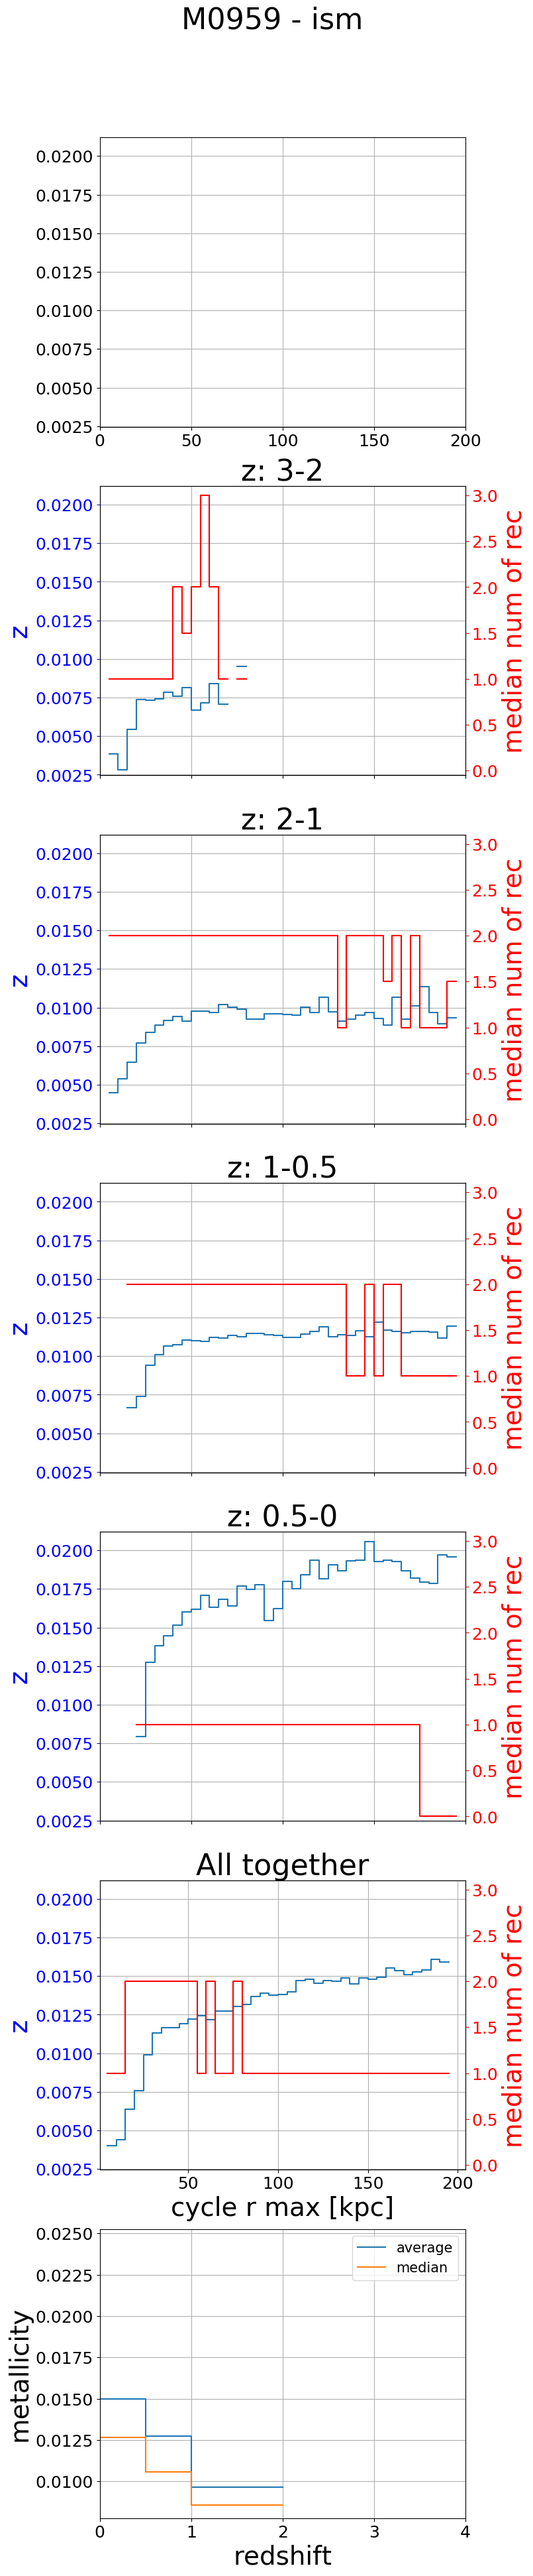
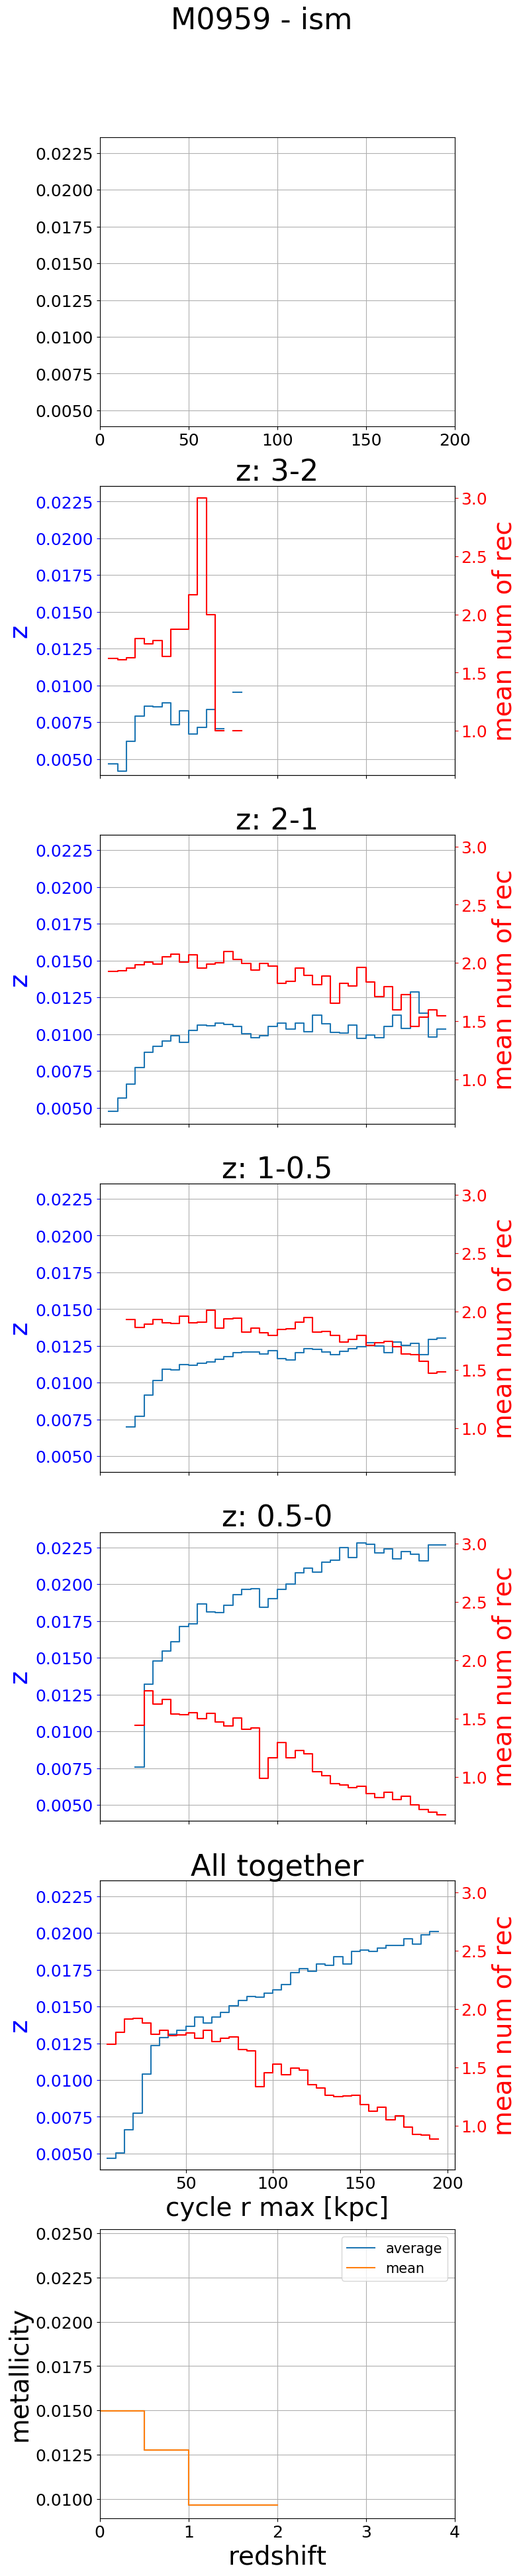
nrc_vs_r back to average

diff --git a/1/nrc_vs_r.py b/1/nrc_vs_r.py
@@ -56,9 +56,9 @@ def plot(args):
         if len(cycle_r_max) == 0:
             continue
         average_nor, _, _ = stats.binned_statistic(cycle_r_max,
-            extended_nrc, statistic='median', bins=bins)
+            extended_nrc, statistic='mean', bins=bins)
         average_z, _, _ = stats.binned_statistic(cycle_r_max,
-            metallicity_at_ejection, statistic='median', bins=bins)
+            metallicity_at_ejection, statistic='mean', bins=bins)
         
         ax[i].set_ylabel('z', color='b')
         ax[i].step(bins[:-1], average_z)
@@ -70,7 +70,7 @@ def plot(args):
         second_axes.append(ax[i].twinx())
         second_axes[-1].grid(False)
         second_axes[-1].step(bins[:-1], average_nor, color='r')
-        second_axes[-1].set_ylabel('median num of rec', color='r')
+        second_axes[-1].set_ylabel('mean num of rec', color='r')
         second_axes[-1].tick_params('y', colors='r')
         y_min.append(ax[i].get_ylim()[0])
         y_max.append(ax[i].get_ylim()[1])
@@ -94,18 +94,18 @@ def plot(args):
     average_metallicity, edges_met, _ = stats.binned_statistic(
         ejection_z, metallicity_ejection,
         bins=time_bins, statistic='mean')
-    median_metallicity, edges_met, _ = stats.binned_statistic(
+    mean_metallicity, edges_met, _ = stats.binned_statistic(
         ejection_z, metallicity_ejection,
-        bins=time_bins, statistic='median')
+        bins=time_bins, statistic='mean')
 
     for i, particle in enumerate(cycle_r_max):
         for line in particle:
             extended_nor.append(number_of_recycles[i])
 
     average_nor, _, _ = stats.binned_statistic(np.concatenate(cycle_r_max),
-        extended_nor, statistic='median', bins=bins)
+        extended_nor, statistic='mean', bins=bins)
     average_z, _, _ = stats.binned_statistic(np.concatenate(cycle_r_max),
-        np.concatenate(metals_ejection), statistic='median', bins=bins)
+        np.concatenate(metals_ejection), statistic='mean', bins=bins)
 
     ax[-2].set_title('All together')
     ax[-2].set_xlabel(('cycle r max [kpc]'))
@@ -121,7 +121,7 @@ def plot(args):
     ax2 = ax[-2].twinx()
     ax2.grid(False)
     ax2.step(bins[:-1], average_nor, color='r')
-    ax2.set_ylabel('median num of rec', color='r')
+    ax2.set_ylabel('mean num of rec', color='r')
     ax2.tick_params('y', colors='r')
     y2_min.append(ax2.get_ylim()[0])
     y2_max.append(ax2.get_ylim()[1])
@@ -133,7 +133,7 @@ def plot(args):
     ax[-1].set_xlabel('redshift')
     ax[-1].set_ylabel('metallicity')
     ax[-1].step(edges_met[:-1], average_metallicity, label='average')
-    ax[-1].step(edges_met[:-1], median_metallicity, label='median')
+    ax[-1].step(edges_met[:-1], mean_metallicity, label='mean')
     ax[-1].legend(loc='upper right')
 
     f.tight_layout()
